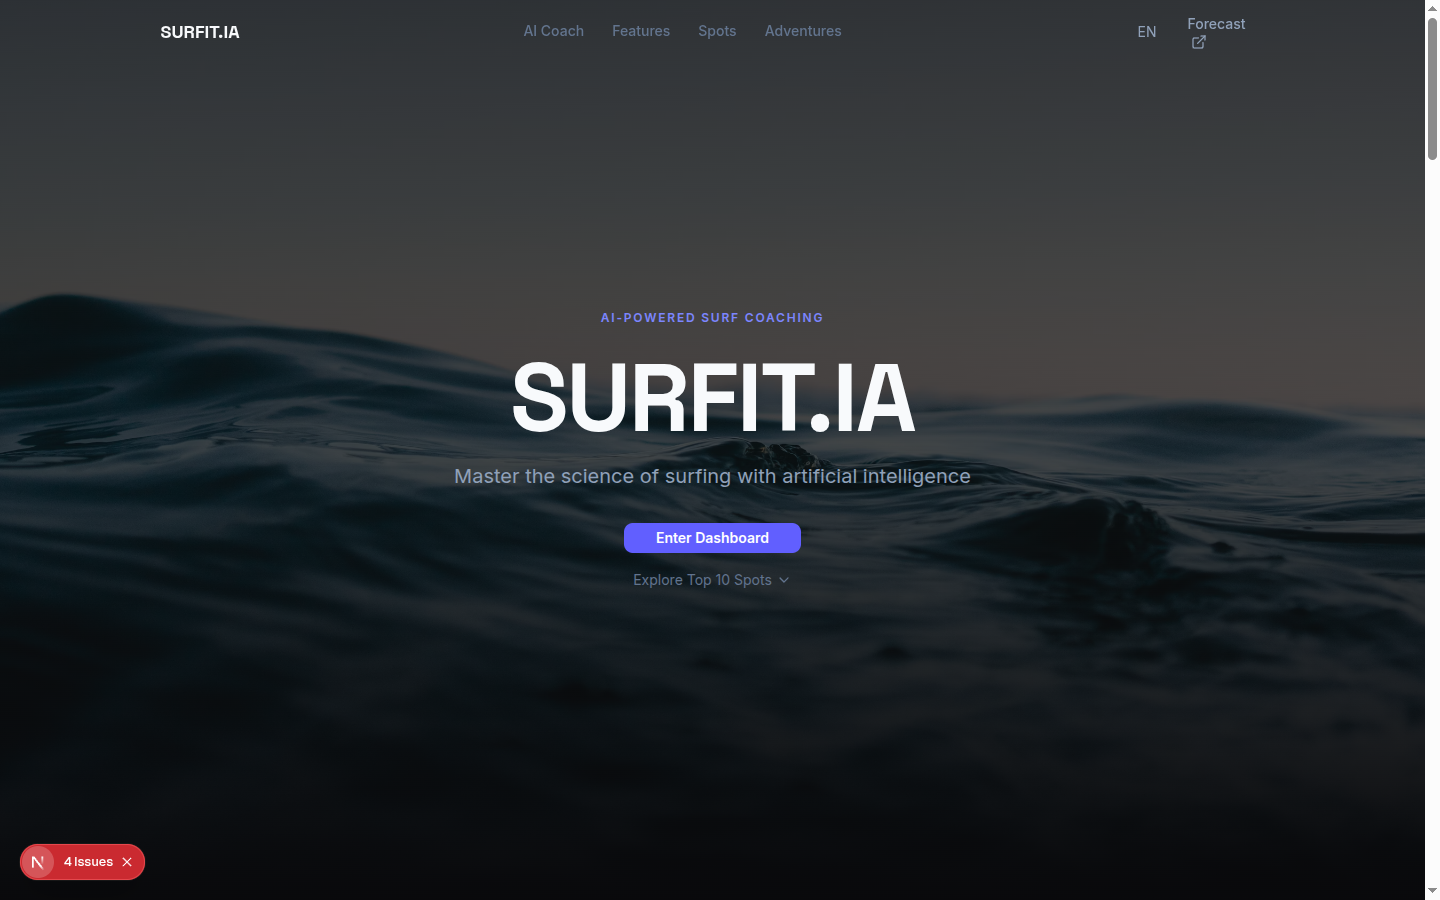
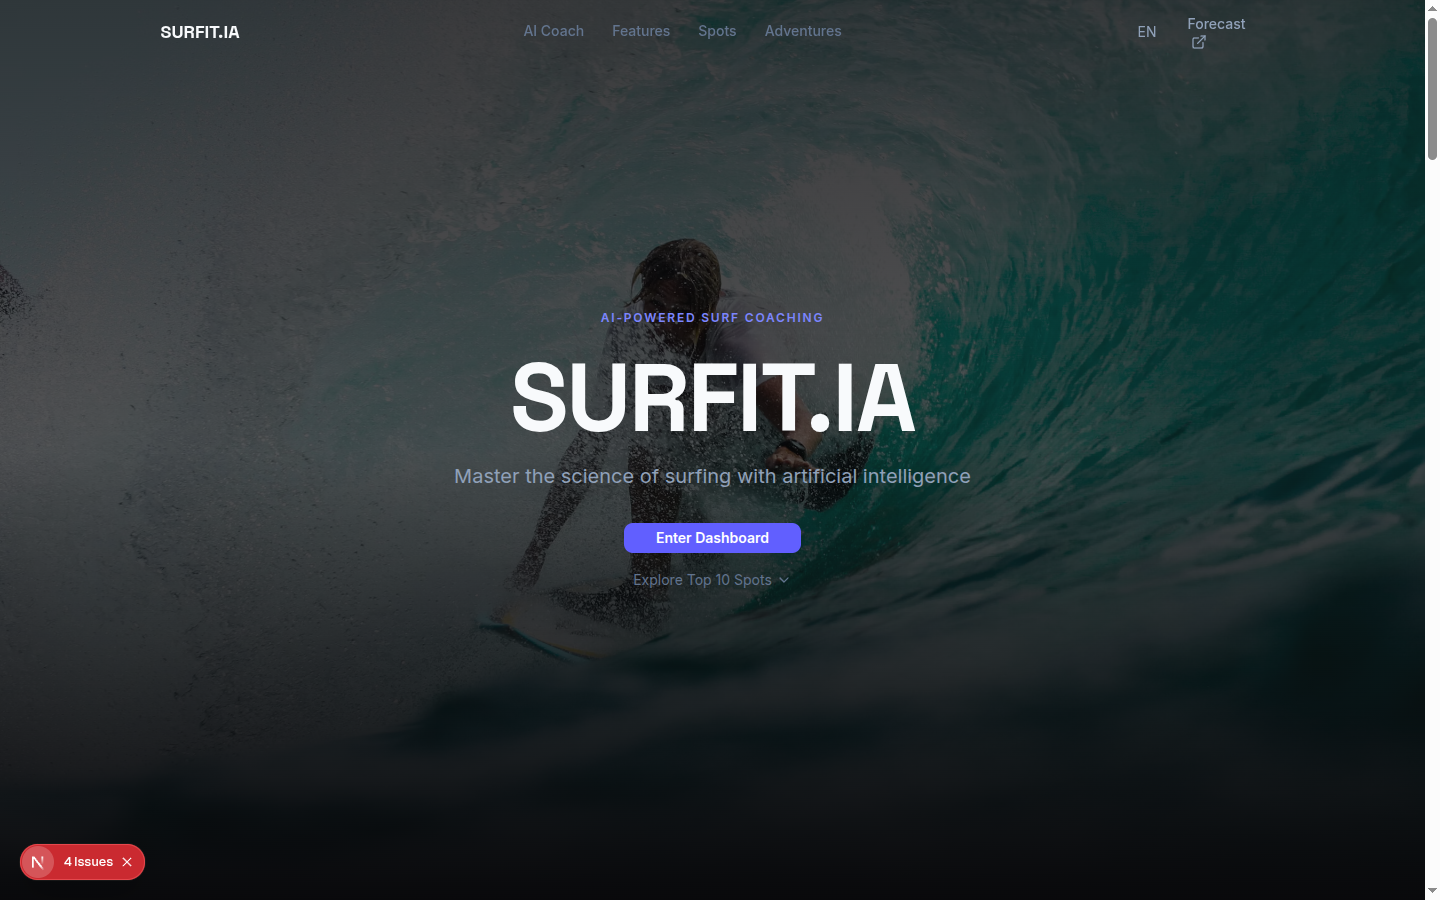
Differentiate hero images and section order across directions
- Direction B: new hero image (barrel/surfer) distinct from A's deep ocean
- Direction C: new hero image (big wave) distinct from A and B
- Direction C: SurfSpots moved before AiCoach+FeaturesGrid (section order
  differentiation — Bold Sport direction leads with destination content)

Changed region(s): [[0.0, 0.0, 1.0, 0.8089]]

diff --git a/surfit-ia-b/src/components/sections/hero.tsx b/surfit-ia-b/src/components/sections/hero.tsx
@@ -14,8 +14,8 @@ export default function Hero() {
     >
       <div className="absolute inset-0">
         <img
-          src="https://images.unsplash.com/photo-1518837695005-2083093ee35b?q=80&w=2670&auto=format&fit=crop"
-          alt="Deep Ocean"
+          src="https://images.unsplash.com/photo-1502680390469-be75c86b636f?q=80&w=2670&auto=format&fit=crop"
+          alt="Surfer on wave"
           className="w-full h-full object-cover object-center"
         />
         <div className="absolute inset-0 bg-gradient-to-b from-zinc-950/80 via-zinc-950/70 to-zinc-950" />

diff --git a/surfit-ia-c/src/components/sections/hero.tsx b/surfit-ia-c/src/components/sections/hero.tsx
@@ -65,7 +65,7 @@ export default function Hero() {
         className="absolute inset-0"
       >
         <img
-          src="https://images.unsplash.com/photo-1518837695005-2083093ee35b?q=80&w=2670&auto=format&fit=crop"
+          src="https://images.unsplash.com/photo-1559827260-dc66d52bef19?q=80&w=2670&auto=format&fit=crop"
           alt="Deep Ocean"
           className="w-full h-full object-cover opacity-10"
         />

diff --git a/surfit-ia-c/src/app/page.tsx b/surfit-ia-c/src/app/page.tsx
@@ -12,10 +12,10 @@ export default function Home() {
       <SiteHeader />
       <main>
         <Hero />
+        <SurfSpots />
         <AiCoach />
         <FeaturesGrid />
         <Adventure />
-        <SurfSpots />
       </main>
       <SiteFooter />
     </>
